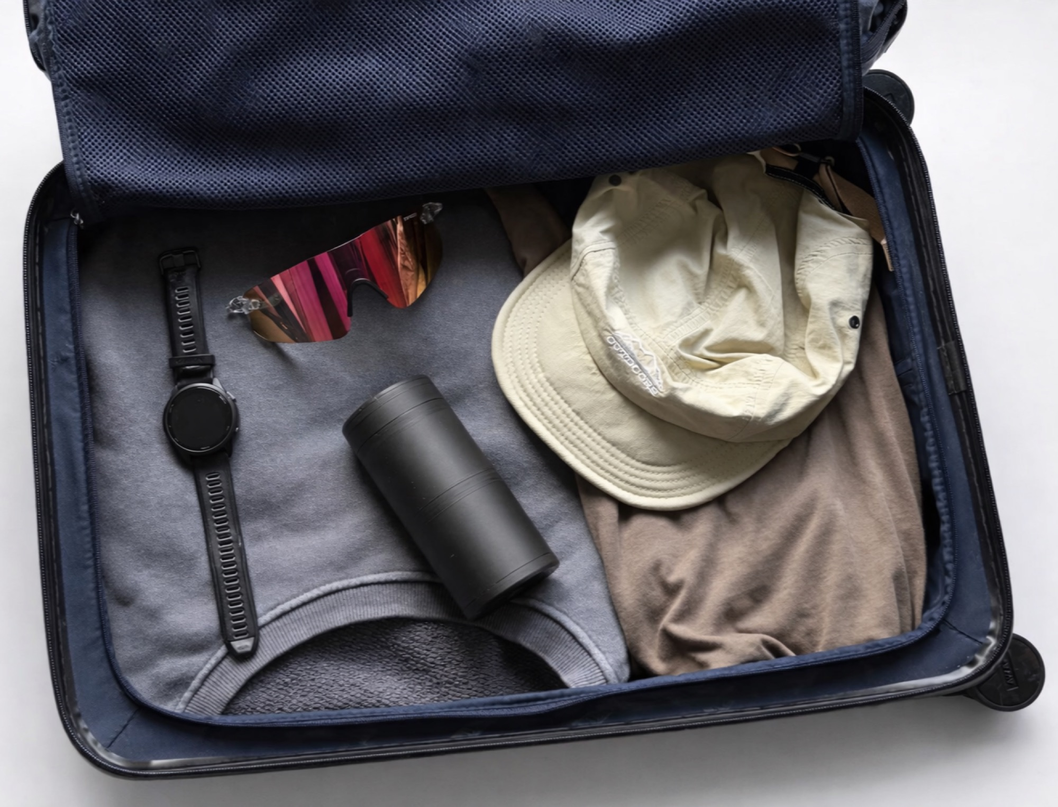
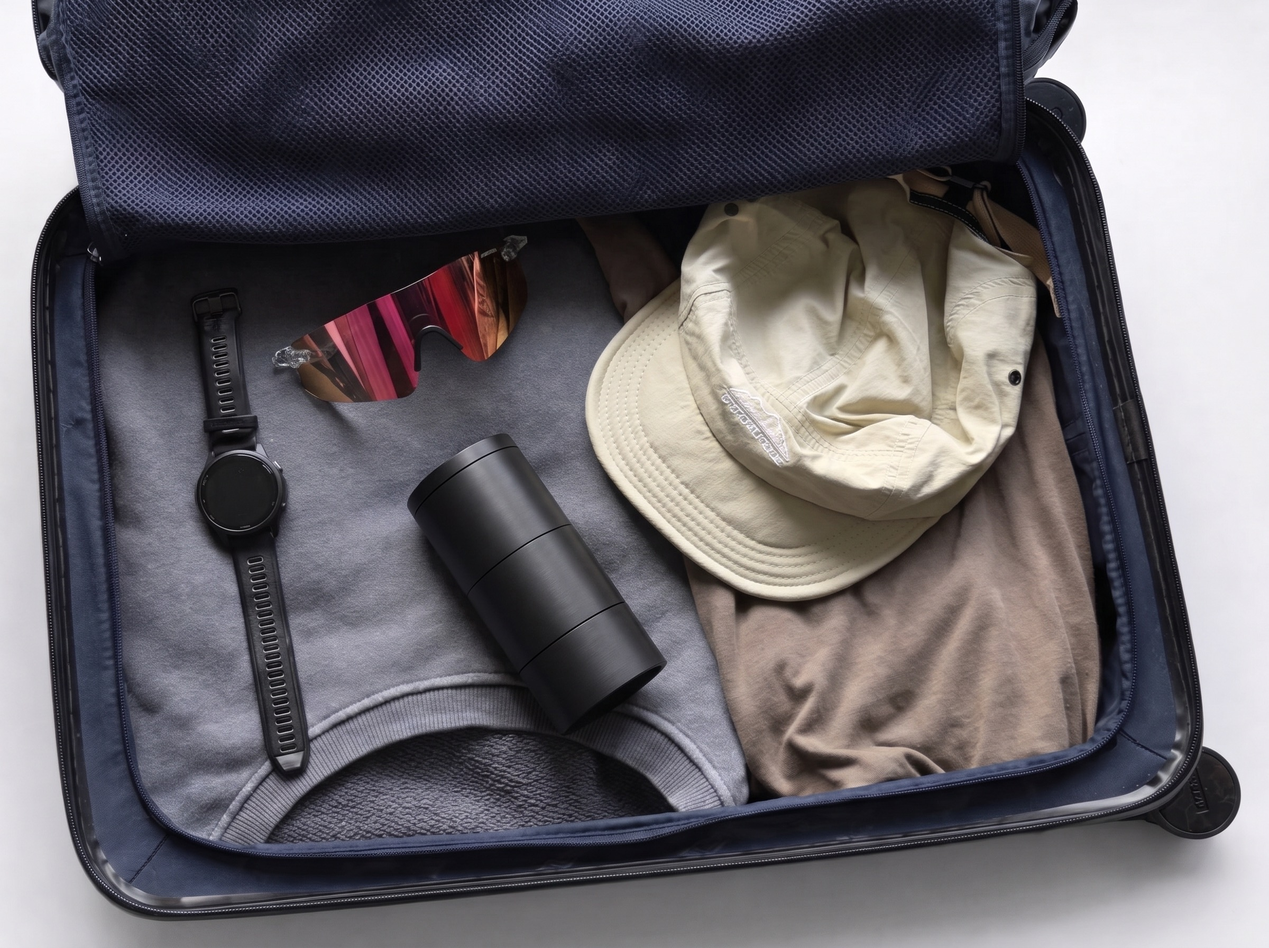
Add homepage "How it works" section and rework section rhythm
Adds a new "One simple system" / Pack-Stack-Go section between the
shop cards and "What we make, and why", with a rotating product photo
and a staircase-indented three-step list. Removes the old "Your
routine, intact" section, standardizes inter-section vertical spacing
on a shared --section-gap token, matches "What we make, and why"'s
grid/vertical alignment to the new section, and updates the moves
section's Packed Suitcase photo.

diff --git a/style.css b/style.css
@@ -2,6 +2,8 @@
 
 :root {
   --radius: 2px;
+  --section-gap: 128px; /* matches .pilr-diff's existing margin-bottom, the
+    closest thing this page already had to a standard inter-section gap */
   --bg: #FAFAF8;
   --surface: #FAFAF8;
   --border: #E5E4DF;
@@ -1003,6 +1005,83 @@ body {
   }
 }
 
+/* ── HOW IT WORKS ──────────────────────────────────────────────
+   Spec: literal 592px text column / 64px gap / 400px photo column,
+   left-aligned inside the site's normal 1160px/3rem container (same
+   one "why" uses, so the row's left edge still lines up with it).
+   1160 - (592+64+400) = 104px goes unused on the right rather than
+   being absorbed into the columns — the photo box is pinned to an
+   exact 400x500 (4:5) to match the real 1080x1350 source photos
+   pixel-for-pixel; letting the columns stretch to fill the container
+   would drift that ratio away from the actual photos' crop. ────── */
+.how-section { padding: 100px 3rem 0; margin-bottom: var(--section-gap); background: var(--bg); }
+.how-inner {
+  max-width: 1160px; margin: 0 auto;
+  display: grid; grid-template-columns: 592px 400px; gap: 64px;
+  align-items: center; justify-content: start;
+}
+.how-left { display: flex; flex-direction: column; justify-content: center; }
+.how-eyebrow {
+  font-size: 11px; font-weight: 700; letter-spacing: 0.08em;
+  text-transform: uppercase; color: #5e6e7a; margin: 0 0 16px;
+  font-family: 'Helvetica Neue', Helvetica, Arial, sans-serif;
+}
+.how-title {
+  font-size: 34px; font-weight: 500; line-height: 1.2;
+  letter-spacing: -0.02em; color: #5e6e7a; margin: 0 0 56px;
+  font-family: 'Helvetica Neue', Helvetica, Arial, sans-serif;
+}
+/* Staircase indent — each step's bar sits 118px right of the one
+   before it (step 02 lines up under the "P" in "Pods" from step 01's
+   title, measured not eyeballed; step 03 repeats that same 118px
+   offset again from step 02), so the three vertical bars read as
+   evenly spaced steps rather than two different indents. */
+.how-step--second { margin-left: 118px; }
+.how-step--third { margin-left: 236px; }
+.how-step { display: flex; align-items: stretch; gap: 1rem; padding: 22px 0; }
+.how-step:first-child { padding-top: 0; }
+.how-step--first { padding-top: 0; }
+/* Same left bar as .upgrade-bar in "Your routine, intact" above this
+   section — same width/color/radius, height matched via stretch so
+   it always spans exactly the title+description block, same as
+   there. */
+.how-step-bar {
+  width: 3px; border-radius: var(--radius); background: #5e6e7a; flex-shrink: 0;
+}
+.how-step-body { flex: 1; min-width: 0; }
+.how-step-head {
+  display: flex; align-items: baseline; gap: 12px; margin-bottom: 10px;
+}
+.how-step-num {
+  font-size: 11px; font-weight: 600; letter-spacing: 0.08em;
+  color: #5e6e7a; opacity: 0.5; flex-shrink: 0;
+  font-family: 'Helvetica Neue', Helvetica, Arial, sans-serif;
+}
+.how-step-title {
+  font-size: 18px; font-weight: 700; color: #5e6e7a; margin: 0;
+  line-height: 1.3; font-family: 'Helvetica Neue', Helvetica, Arial, sans-serif;
+}
+.how-step-desc {
+  font-size: 14px; line-height: 1.6; color: #7a8a94; margin: 0;
+  font-family: 'Helvetica Neue', Helvetica, Arial, sans-serif;
+}
+.how-right { width: 400px; }
+.how-photo {
+  width: 400px; height: 500px;
+  background: #EFEDE9; border-radius: var(--radius);
+  position: relative; overflow: hidden;
+}
+.how-photo-slide {
+  position: absolute; inset: 0; width: 100%; height: 100%;
+  object-fit: cover; opacity: 0; transition: opacity 1.2s ease;
+}
+.how-photo-slide.is-active { opacity: 1; }
+@media (max-width: 900px) {
+  .how-section { padding: 64px 1.5rem; }
+  .how-inner { grid-template-columns: 1fr; gap: 2.5rem; justify-content: stretch; }
+  .how-right, .how-photo { width: 100%; height: auto; aspect-ratio: 4 / 5; }
+}
+
 /* ── WHY SECTION ──────────────────────────── */
 .why {
   padding: 0 3rem 0;
@@ -1015,7 +1094,7 @@ body {
   display: grid;
   grid-template-columns: 1fr 1fr;
   gap: 5rem;
-  align-items: start;
+  align-items: center;
 }
 
 .why-left {
@@ -1033,6 +1112,8 @@ body {
 .why-right {
   display: flex;
   flex-direction: column;
+  /* Vertically centered against .why-left's fixed 700px photo,
+     same treatment as .how-left is centered against .how-photo. */
   align-self: center;
 }
 
@@ -1311,6 +1392,39 @@ body {
   opacity: 0.82;
 }
 
+/* ── MOVES SECTION — full-bleed rotating photo, placeholder
+   placement at the bottom of the homepage for now. Same two-level
+   pattern as .lifestyle-grid/.lifestyle-viewport above it (outer
+   padding as a fallback, inner max-width centered independently of
+   that padding) so both sections' edges land in the same place on
+   wide screens instead of the padding and max-width stacking. ──── */
+.moves-section { padding: 3rem 3rem 5rem; }
+.moves-viewport { max-width: 1160px; margin: 0 auto; }
+.moves-frame {
+  position: relative; aspect-ratio: 16 / 9; border-radius: var(--radius);
+  overflow: hidden; background: #e5e4df;
+}
+.moves-slide {
+  position: absolute; inset: 0; width: 100%; height: 100%;
+  object-fit: cover; opacity: 0; transition: opacity 1.4s ease;
+}
+.moves-slide.is-active { opacity: 1; }
+.moves-overlay {
+  position: absolute; left: 0; right: 0; bottom: 0; height: 45%;
+  background: linear-gradient(to top, rgba(0,0,0,0.6) 0%, rgba(0,0,0,0) 100%);
+  pointer-events: none;
+}
+.moves-caption {
+  position: absolute; left: 2rem; bottom: 1.75rem; right: 2rem; margin: 0;
+  color: #FFFFFF; font-size: 1.3rem; font-weight: 500; letter-spacing: -0.01em;
+  font-family: 'Helvetica Neue', Helvetica, Arial, sans-serif;
+}
+@media (max-width: 760px) {
+  .moves-section { padding: 2rem 1.25rem 3rem; }
+  .moves-frame { aspect-ratio: 4 / 5; border-radius: var(--radius); }
+  .moves-caption { font-size: 1.1rem; left: 1.25rem; bottom: 1.25rem; right: 1.25rem; }
+}
+
 /* ── PILR DIFFERENCE BANNER ──────────────── */
 .pilr-diff {
   background: rgba(94, 110, 122, 0.7);
@@ -1401,6 +1515,11 @@ body {
   font-family: 'Helvetica Neue', Helvetica, Arial, sans-serif;
   margin: 0;
 }
+
+/* Repeated digits (100) read as far more spread out than letters do
+   at the label's 0.14em tracking, so drop the number back to normal
+   (untracked) spacing entirely instead of just easing it. */
+.pilr-diff-label-num { letter-spacing: normal; }
 
 .pilr-diff-sublabel {
   font-size: 0.7rem;

diff --git a/index.html b/index.html
@@ -136,33 +136,39 @@
     </div>
   </section>
 
-  <!-- UPGRADE SECTION -->
-  <section id="upgrade" class="upgrade">
-    <div class="upgrade-inner">
-      <div class="upgrade-left">
-        <h2>Your routine, intact.</h2>
+  <!-- HOW IT WORKS -->
+  <section class="how-section">
+    <div class="how-inner">
+      <div class="how-left">
+        <p class="how-eyebrow">How it works</p>
+        <h2 class="how-title">One simple system.</h2>
+        <div class="how-step how-step--first">
+          <div class="how-step-bar"></div>
+          <div class="how-step-body">
+            <div class="how-step-head"><span class="how-step-num">01</span><h3 class="how-step-title">Pack</h3></div>
+            <p class="how-step-desc">Load each pod with your pills and powders.</p>
+          </div>
+        </div>
+        <div class="how-step how-step--second">
+          <div class="how-step-bar"></div>
+          <div class="how-step-body">
+            <div class="how-step-head"><span class="how-step-num">02</span><h3 class="how-step-title">Stack</h3></div>
+            <p class="how-step-desc">Twist all your pods together into one system.</p>
+          </div>
+        </div>
+        <div class="how-step how-step--third">
+          <div class="how-step-bar"></div>
+          <div class="how-step-body">
+            <div class="how-step-head"><span class="how-step-num">03</span><h3 class="how-step-title">Go</h3></div>
+            <p class="how-step-desc">Thats it.</p>
+          </div>
+        </div>
       </div>
-      <div class="upgrade-right">
-        <div class="upgrade-item">
-          <div class="upgrade-bar"></div>
-          <div class="upgrade-text">
-            <h3>Under the TSA powder limit</h3>
-            <p>every pod holds under 180.6 ml, against a 350 ml carry-on powder threshold. not a workaround — a dimension.</p>
-          </div>
-        </div>
-        <div class="upgrade-item">
-          <div class="upgrade-bar"></div>
-          <div class="upgrade-text">
-            <h3>Modular</h3>
-            <p>stack as many pods as you need — mix and match to build a system that fits your routine.</p>
-          </div>
-        </div>
-        <div class="upgrade-item">
-          <div class="upgrade-bar"></div>
-          <div class="upgrade-text">
-            <h3>BPA free</h3>
-            <p>built from eastman tritan™ tx1001. bpa-free and dishwasher safe.</p>
-          </div>
+      <div class="how-right">
+        <div class="how-photo" id="how-photo">
+          <img class="how-photo-slide is-active" src="images/lifestyle_section/How It Works Photo 1.png" alt="Classic Stack held in hand" />
+          <img class="how-photo-slide" src="images/lifestyle_section/How It Works Photo 2.png" alt="Classic Stack packed into a travel bag" />
+          <img class="how-photo-slide" src="images/lifestyle_section/How It Works Photo 3.png" alt="Classic Stack next to store-bought supplement bottles" />
         </div>
       </div>
     </div>
@@ -213,6 +219,21 @@
     </div>
   </section>
 
+  <!-- MOVES SECTION — rotating lifestyle photo, placeholder placement
+       under "What we make, and why" for now. -->
+  <section class="moves-section">
+    <div class="moves-viewport">
+      <div class="moves-frame" id="moves-frame">
+        <img class="moves-slide is-active" src="images/lifestyle_section/Airport Pic HQ 1.jpg" alt="" />
+        <img class="moves-slide" src="images/lifestyle_section/Packed Suitcase.jpg" alt="" />
+        <img class="moves-slide" src="images/lifestyle_section/Backpack Pocket Pic.png" alt="" />
+        <img class="moves-slide" src="images/lifestyle_section/About Film Pic.JPG" alt="" />
+        <div class="moves-overlay"></div>
+        <p class="moves-caption">Built for the way you actually move.</p>
+      </div>
+    </div>
+  </section>
+
   <!-- PILR DIFFERENCE BANNER -->
   <section class="pilr-diff">
     <div class="pilr-diff-inner">
@@ -234,7 +255,7 @@
         <div class="pilr-diff-feat-item">
           <img class="pilr-diff-icon" src="images/Modular_Design_section/BPA Free Icon.png" alt="" />
           <div class="pilr-diff-text">
-            <p class="pilr-diff-label">100% BPA-free</p>
+            <p class="pilr-diff-label"><span class="pilr-diff-label-num">100</span>% BPA-free</p>
             <p class="pilr-diff-sublabel">built with clean materials</p>
           </div>
         </div>
@@ -366,7 +387,6 @@
     </div>
     </div>
   </section>
-
 
   <!-- FEATURES BAR -->
   <!-- FOOTER TOP (dark) -->
@@ -722,6 +742,22 @@
         card.classList.toggle('is-revealed');
       });
     });
+  </script>
+  <script>
+    (function() {
+      function rotate(containerId, slideClass, intervalMs) {
+        var slides = document.querySelectorAll('#' + containerId + ' .' + slideClass);
+        if (slides.length < 2) return;
+        var current = 0;
+        setInterval(function() {
+          slides[current].classList.remove('is-active');
+          current = (current + 1) % slides.length;
+          slides[current].classList.add('is-active');
+        }, intervalMs);
+      }
+      rotate('moves-frame', 'moves-slide', 4000);
+      rotate('how-photo', 'how-photo-slide', 3000);
+    })();
   </script>
 </body>
 </html>
